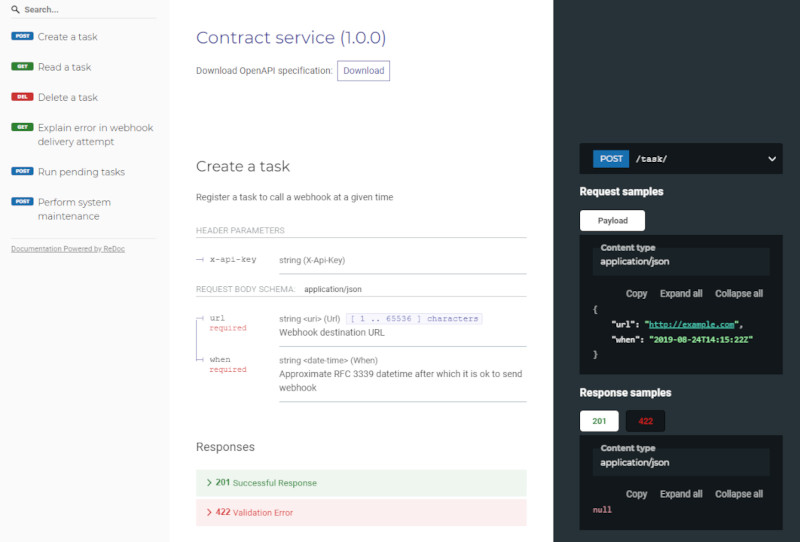
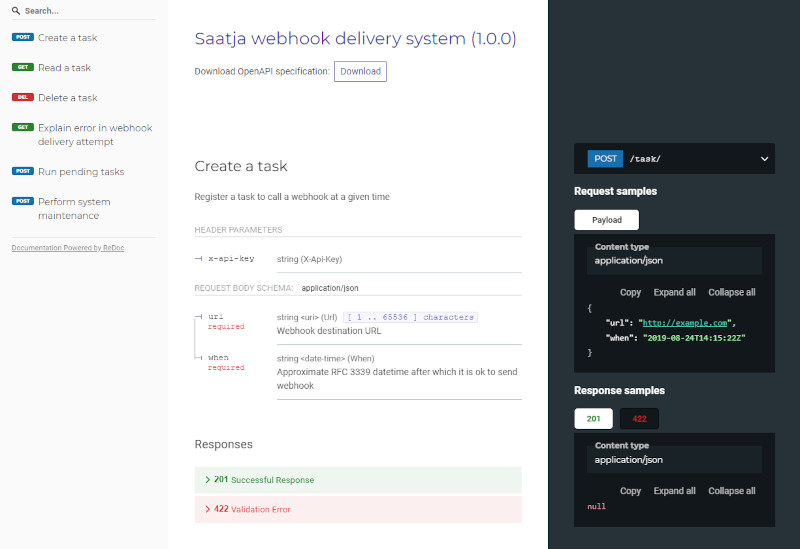
Updated OpenAPI application title

diff --git a/saatja/main.py b/saatja/main.py
@@ -14,7 +14,7 @@ from saatja.settings import conf
 
 OPENAPI_SPEC_FILE = "openapi/openapi.json"
 
-app = FastAPI(title="Contract service", version="1.0.0")
+app = FastAPI(title="Saatja webhook delivery system", version="1.0.0")
 app.include_router(task_router, prefix="/task")
 app.include_router(scheduler_router, prefix="/scheduler")
 app.logger = logger
